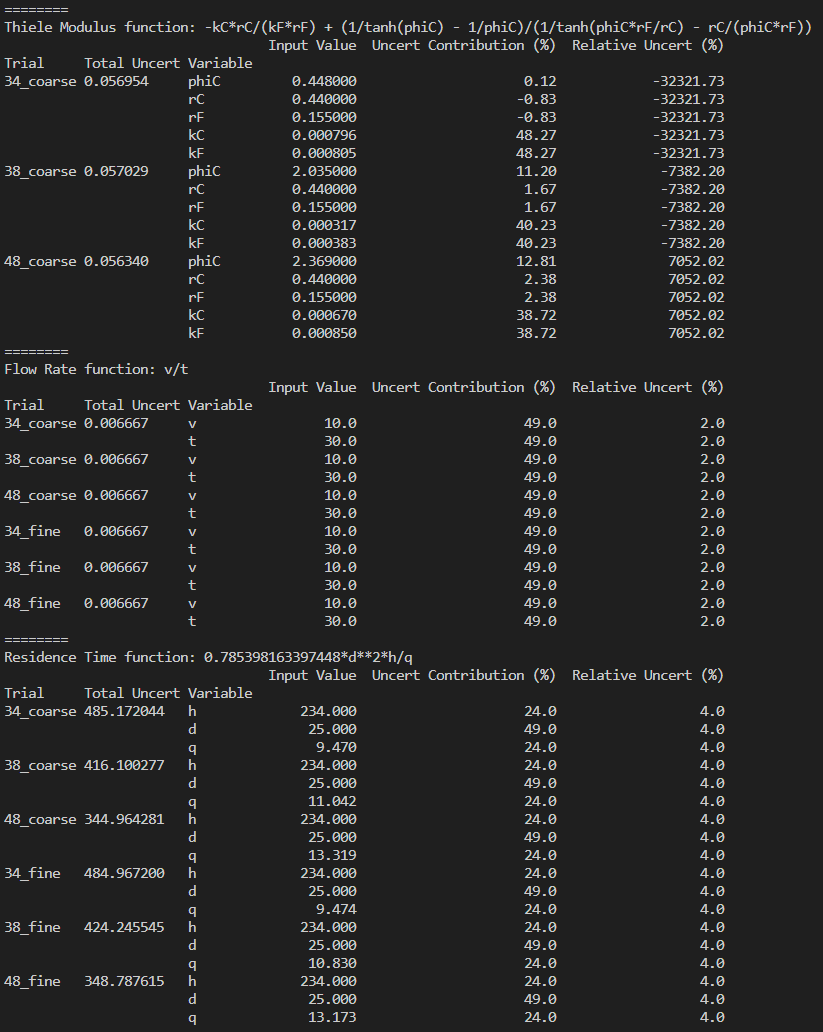
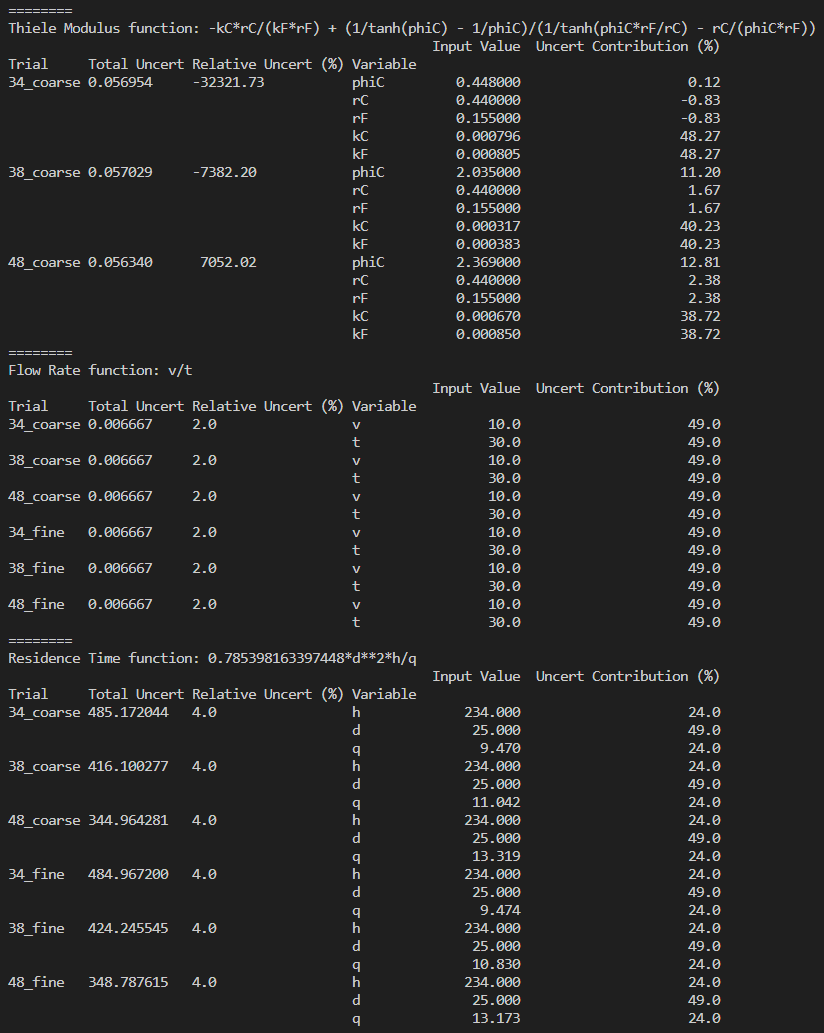
c

Changed region(s): [[0.0, 0.0, 1.0, 0.9922], [0.0, 0.2481, 0.1823, 0.2791], [0.0, 0.155, 0.1823, 0.186]]

diff --git a/363/catalytic_reactor/main.py b/363/catalytic_reactor/main.py
@@ -190,7 +190,7 @@ class UncertCalc:
             f'{x} function: {self.functions[x]}',
             self.df.loc[self.df["Metric"] == x
                 ].drop(['Input Uncert Value', 'Component Uncert', 'Metric'], axis=1
-                ).set_index(["Trial", 'Total Uncert', 'Variable']),
+                ).set_index(["Trial", 'Total Uncert', 'Relative Uncert (%)', 'Variable']),
             sep='\n')
 
 
